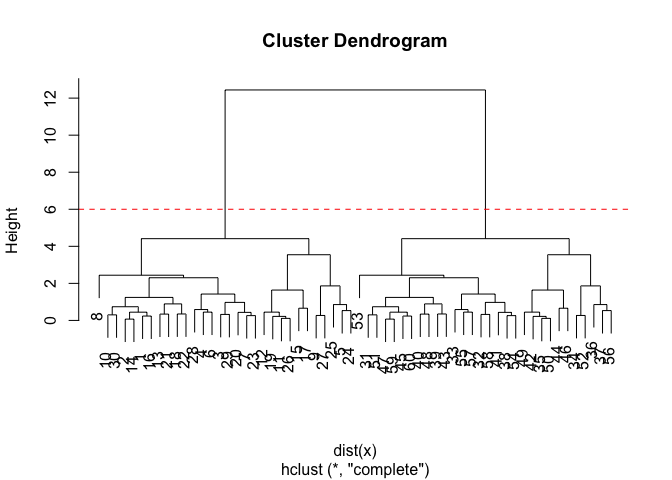
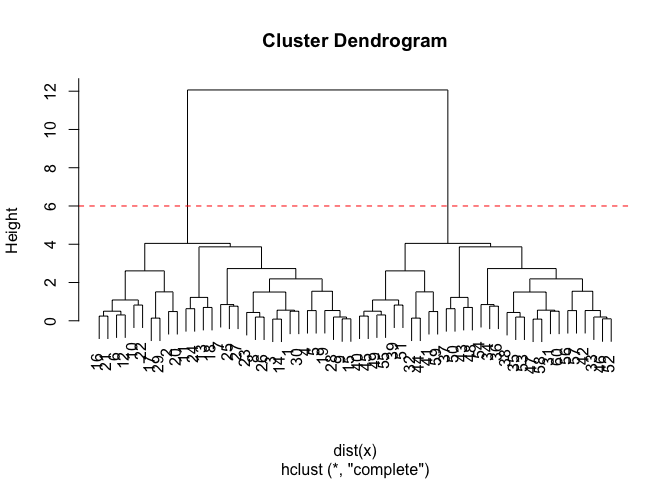
class 09

diff --git a/class09/class09.md b/class09/class09.md
@@ -33,16 +33,16 @@ km
     ## 
     ## Cluster means:
     ##           x         y
-    ## 1  3.036064 -3.072001
-    ## 2 -3.072001  3.036064
+    ## 1 -2.939129  3.059490
+    ## 2  3.059490 -2.939129
     ## 
     ## Clustering vector:
-    ##  [1] 2 2 2 2 2 2 2 2 2 2 2 2 2 2 2 2 2 2 2 2 2 2 2 2 2 2 2 2 2 2 1 1 1 1 1 1 1 1
-    ## [39] 1 1 1 1 1 1 1 1 1 1 1 1 1 1 1 1 1 1 1 1 1 1
+    ##  [1] 1 1 1 1 1 1 1 1 1 1 1 1 1 1 1 1 1 1 1 1 1 1 1 1 1 1 1 1 1 1 2 2 2 2 2 2 2 2
+    ## [39] 2 2 2 2 2 2 2 2 2 2 2 2 2 2 2 2 2 2 2 2 2 2
     ## 
     ## Within cluster sum of squares by cluster:
-    ## [1] 62.53523 62.53523
-    ##  (between_SS / total_SS =  89.9 %)
+    ## [1] 65.53055 65.53055
+    ##  (between_SS / total_SS =  89.2 %)
     ## 
     ## Available components:
     ## 
@@ -79,8 +79,8 @@ cluster assignment/membership? - cluster
 km$cluster
 ```
 
-    ##  [1] 2 2 2 2 2 2 2 2 2 2 2 2 2 2 2 2 2 2 2 2 2 2 2 2 2 2 2 2 2 2 1 1 1 1 1 1 1 1
-    ## [39] 1 1 1 1 1 1 1 1 1 1 1 1 1 1 1 1 1 1 1 1 1 1
+    ##  [1] 1 1 1 1 1 1 1 1 1 1 1 1 1 1 1 1 1 1 1 1 1 1 1 1 1 1 1 1 1 1 2 2 2 2 2 2 2 2
+    ## [39] 2 2 2 2 2 2 2 2 2 2 2 2 2 2 2 2 2 2 2 2 2 2
 
 let’s check how many 2s and 1s are in this vector with the `table()`
 function.
@@ -134,7 +134,7 @@ table(cutree(hc, h=3.5))
 
     ## 
     ##  1  2  3  4  5  6 
-    ##  5 12 13 12  5 13
+    ## 16 10  4 16 10  4
 
 You can also ask `cutree()` for the `k` number of groups that you
     want.
@@ -143,8 +143,8 @@ You can also ask `cutree()` for the `k` number of groups that you
 cutree(hc, k=5)
 ```
 
-    ##  [1] 1 1 1 2 2 2 2 2 1 1 1 1 2 2 2 1 1 1 2 2 2 1 1 1 1 2 2 1 1 1 3 3 4 5 5 3 3 3
-    ## [39] 3 5 5 5 3 3 4 5 5 5 3 4 4 3 5 5 5 5 5 3 3 4
+    ##  [1] 1 2 1 1 1 2 1 1 1 2 1 2 1 1 1 2 2 1 1 2 2 2 1 1 1 1 1 1 2 1 3 4 3 3 3 3 5 3
+    ## [39] 4 4 4 3 5 4 4 3 3 5 4 5 4 3 3 3 4 3 3 3 4 3
 
 ### Some more messy data to cluster
 
@@ -154,168 +154,168 @@ matrix(rnorm(100, mean=0, sd=0.3), ncol = 2)
 ```
 
     ##              [,1]        [,2]
-    ##  [1,] -0.31913820 -0.02109787
-    ##  [2,]  0.03186402 -0.17957729
-    ##  [3,]  0.48375748 -0.20059460
-    ##  [4,] -0.39366503 -0.03599685
-    ##  [5,]  0.17189445  0.10363401
-    ##  [6,]  0.38049361 -0.78180897
-    ##  [7,] -0.26561546 -0.07978661
-    ##  [8,]  0.49009226 -0.33956113
-    ##  [9,] -0.05380197  0.12194989
-    ## [10,]  0.04018419 -0.37933969
-    ## [11,]  0.15636835  0.28612476
-    ## [12,]  0.45929287  0.26465745
-    ## [13,] -0.11312212 -0.34511387
-    ## [14,] -0.19230680 -0.30733014
-    ## [15,] -0.15897707 -0.41035629
-    ## [16,]  0.32004260  0.07745656
-    ## [17,]  0.42093394 -0.05766921
-    ## [18,]  0.09297242 -0.20041143
-    ## [19,] -0.47570309  0.38215916
-    ## [20,] -0.26339523 -0.01247480
-    ## [21,]  0.15354016  0.07124409
-    ## [22,]  0.03102017  0.30836894
-    ## [23,] -0.16344478 -0.24198403
-    ## [24,]  0.21428093 -0.34442785
-    ## [25,] -0.09036779 -0.22700342
-    ## [26,] -0.08545067 -0.21815372
-    ## [27,]  0.31355849 -0.16934805
-    ## [28,] -0.47654434 -0.11851911
-    ## [29,]  0.82254395  0.23276476
-    ## [30,] -0.21233668  0.51116399
-    ## [31,]  0.15849475 -0.03676289
-    ## [32,]  0.27796116  0.11586018
-    ## [33,]  0.25548278  0.32443330
-    ## [34,] -0.08018712 -0.38691119
-    ## [35,] -0.07343150 -0.23426910
-    ## [36,] -0.33359553 -0.54139333
-    ## [37,]  0.04255332 -0.19679985
-    ## [38,]  0.09926331 -0.11365487
-    ## [39,]  0.12991411 -0.32098665
-    ## [40,]  0.17023745  0.31840524
-    ## [41,]  0.36995024 -0.15544984
-    ## [42,]  0.08740956 -0.20408206
-    ## [43,]  0.10574367  0.20614899
-    ## [44,] -0.10794279 -0.47344302
-    ## [45,] -0.07305686  0.15686376
-    ## [46,]  0.31398187  0.37838636
-    ## [47,]  0.45804409  0.03634850
-    ## [48,] -0.23476027  0.67243123
-    ## [49,] -0.24874449  0.18886026
-    ## [50,]  0.52531739 -0.10457459
+    ##  [1,] -0.02775715 -0.23696221
+    ##  [2,] -0.57422891 -0.22861441
+    ##  [3,] -0.42399051 -0.21353164
+    ##  [4,] -0.09101767 -0.32059918
+    ##  [5,]  0.02146266 -0.14674155
+    ##  [6,] -0.15977803  0.10435362
+    ##  [7,] -0.27579102 -0.02487040
+    ##  [8,] -0.14254310  0.13315211
+    ##  [9,] -0.06998891 -0.57964966
+    ## [10,] -0.19030487  0.26727149
+    ## [11,]  0.77913347  0.31680197
+    ## [12,] -0.11329903 -0.50010193
+    ## [13,] -0.39623306  0.42457428
+    ## [14,]  0.06026653 -0.13287384
+    ## [15,]  0.15885059 -0.25080784
+    ## [16,] -0.03477833 -0.25569467
+    ## [17,]  0.13473549  0.12767830
+    ## [18,]  0.33211732  0.31179461
+    ## [19,] -0.12264195 -0.09847429
+    ## [20,] -0.26900767 -0.26835771
+    ## [21,] -0.23507133  0.28202394
+    ## [22,]  0.13632396  0.02775545
+    ## [23,]  0.17336341 -0.49476997
+    ## [24,]  0.12109758  0.11741279
+    ## [25,] -0.06848261  0.15294415
+    ## [26,] -0.18012967 -0.30279931
+    ## [27,] -0.27493538  0.25783576
+    ## [28,]  0.38176817  0.42317136
+    ## [29,] -0.02978064  0.31757910
+    ## [30,] -0.34832580 -0.36576432
+    ## [31,]  0.06446065  0.08906361
+    ## [32,]  0.03523788 -0.69302227
+    ## [33,]  0.21330682  0.09821592
+    ## [34,] -0.61821147  0.23574663
+    ## [35,]  0.48246586 -0.11248931
+    ## [36,]  0.34506107 -0.41293041
+    ## [37,] -0.36396717  0.18213199
+    ## [38,]  0.01611774  0.03128387
+    ## [39,]  0.30717845 -0.01822323
+    ## [40,]  0.10666143  0.42171030
+    ## [41,] -0.18776253 -0.03285607
+    ## [42,] -0.30826351 -0.47282986
+    ## [43,]  0.20527543 -0.27453122
+    ## [44,] -0.11371357  0.10902098
+    ## [45,]  0.12330185 -0.31550463
+    ## [46,] -0.08180270 -0.28664197
+    ## [47,]  0.35495223 -0.07687250
+    ## [48,] -0.18599652  0.07605067
+    ## [49,]  0.21969205  0.08483616
+    ## [50,] -0.13157512 -0.07882112
 
 ``` r
 matrix(rnorm(100, mean=1, sd=0.3), ncol = 2)
 ```
 
-    ##             [,1]      [,2]
-    ##  [1,] 1.19760847 1.0236556
-    ##  [2,] 1.35353020 0.6939977
-    ##  [3,] 0.68572801 0.9837471
-    ##  [4,] 0.97918697 1.2747649
-    ##  [5,] 1.02626593 1.1727653
-    ##  [6,] 1.01187063 0.8429273
-    ##  [7,] 1.91437082 0.7830710
-    ##  [8,] 0.85247105 0.9378162
-    ##  [9,] 1.32216766 1.6258779
-    ## [10,] 0.78020704 0.8034727
-    ## [11,] 0.06133387 0.8895558
-    ## [12,] 1.26367624 1.1246501
-    ## [13,] 1.06525507 0.5026807
-    ## [14,] 0.74490189 1.5551092
-    ## [15,] 1.37747497 0.8756832
-    ## [16,] 1.09566883 1.3038572
-    ## [17,] 0.76675388 1.6389252
-    ## [18,] 1.03829773 0.9966498
-    ## [19,] 1.53211294 0.4107839
-    ## [20,] 1.42924459 1.0435305
-    ## [21,] 0.95570543 1.0215452
-    ## [22,] 1.14051846 0.9407165
-    ## [23,] 0.81417652 1.0843284
-    ## [24,] 0.79282299 0.8253359
-    ## [25,] 1.12173334 1.3034469
-    ## [26,] 0.99633918 0.9716576
-    ## [27,] 1.07928714 1.0502080
-    ## [28,] 0.89590916 0.4897840
-    ## [29,] 1.35517049 1.2041723
-    ## [30,] 1.46361915 1.2716977
-    ## [31,] 1.21649065 0.9981566
-    ## [32,] 1.09305664 0.9384694
-    ## [33,] 0.79526325 0.8198659
-    ## [34,] 0.91947846 0.7717310
-    ## [35,] 0.80247377 1.1495131
-    ## [36,] 1.08620889 0.8326349
-    ## [37,] 1.25506859 1.1210930
-    ## [38,] 0.99243130 0.6711573
-    ## [39,] 0.58812276 0.7849255
-    ## [40,] 0.89724998 1.1039184
-    ## [41,] 1.35413850 0.8067433
-    ## [42,] 1.07471113 1.1669654
-    ## [43,] 0.73948463 1.0161904
-    ## [44,] 1.22591288 1.0654462
-    ## [45,] 0.82859460 1.1410175
-    ## [46,] 0.89832546 1.2755583
-    ## [47,] 0.58500837 0.7599255
-    ## [48,] 1.65454160 1.1778500
-    ## [49,] 0.67095172 0.5659507
-    ## [50,] 1.17967773 0.9201865
+    ##            [,1]      [,2]
+    ##  [1,] 1.0915410 0.9335760
+    ##  [2,] 0.9226210 0.6363475
+    ##  [3,] 0.8228454 1.4165913
+    ##  [4,] 0.9724753 0.8013258
+    ##  [5,] 0.2444294 1.4223090
+    ##  [6,] 0.8695445 1.4770139
+    ##  [7,] 0.6914379 1.4807277
+    ##  [8,] 1.0569795 1.1485659
+    ##  [9,] 1.3318963 0.6293962
+    ## [10,] 0.7956119 1.1836417
+    ## [11,] 0.9915400 0.8085057
+    ## [12,] 1.2132366 1.3632821
+    ## [13,] 1.0807092 1.1643070
+    ## [14,] 0.8966870 0.9426413
+    ## [15,] 0.6118650 1.4858598
+    ## [16,] 1.0263584 1.0981055
+    ## [17,] 1.2686189 0.5131177
+    ## [18,] 0.6094432 0.7545855
+    ## [19,] 1.1637618 1.3359750
+    ## [20,] 0.6416405 0.6953474
+    ## [21,] 0.5826931 0.6935017
+    ## [22,] 0.8481816 1.1628984
+    ## [23,] 0.6248454 1.2173697
+    ## [24,] 0.7286479 1.1577441
+    ## [25,] 1.0345861 1.0708088
+    ## [26,] 0.9398092 1.9547169
+    ## [27,] 1.1149289 1.2602754
+    ## [28,] 1.1712076 0.8278038
+    ## [29,] 0.8159349 0.4318635
+    ## [30,] 1.3489096 0.5891355
+    ## [31,] 1.1266205 0.9756055
+    ## [32,] 0.7687121 0.9546305
+    ## [33,] 0.8564022 0.2555261
+    ## [34,] 1.0056521 1.0854538
+    ## [35,] 1.1053202 1.1526476
+    ## [36,] 1.1121741 0.8921480
+    ## [37,] 1.6606344 0.9756454
+    ## [38,] 0.8438261 1.4166331
+    ## [39,] 0.9737325 0.7344169
+    ## [40,] 1.3140451 0.8803738
+    ## [41,] 1.4411169 0.5593098
+    ## [42,] 0.9814031 0.7394828
+    ## [43,] 0.9571316 0.8873122
+    ## [44,] 1.1671378 1.3706679
+    ## [45,] 0.9659649 0.8153628
+    ## [46,] 0.8983481 1.1639941
+    ## [47,] 0.5635391 0.9660119
+    ## [48,] 1.1679422 1.2885660
+    ## [49,] 0.6325335 0.5518322
+    ## [50,] 0.9880246 0.9356474
 
 ``` r
 matrix(c(rnorm(50, mean=1, sd=0.3), rnorm(50, mean=0, sd=0.3)), ncol = 2)
 ```
 
     ##            [,1]         [,2]
-    ##  [1,] 1.2060488 -0.146109709
-    ##  [2,] 1.2034985 -0.014948194
-    ##  [3,] 0.9672763 -0.023773402
-    ##  [4,] 1.3283526 -0.225318420
-    ##  [5,] 1.2297119 -0.287576472
-    ##  [6,] 1.1053408  0.087633349
-    ##  [7,] 0.8834071  0.160412976
-    ##  [8,] 0.7704349  0.150138209
-    ##  [9,] 1.2268410 -0.451923138
-    ## [10,] 0.9052539 -0.003795535
-    ## [11,] 0.4378323  0.224513399
-    ## [12,] 1.2743550  0.237776823
-    ## [13,] 0.7310799 -0.448243582
-    ## [14,] 0.4064599 -0.121512138
-    ## [15,] 1.2467844 -0.198130726
-    ## [16,] 0.9109003 -0.709841909
-    ## [17,] 0.5298332  0.179927805
-    ## [18,] 0.6137907 -0.123858665
-    ## [19,] 0.7759335 -0.025184663
-    ## [20,] 1.4112375  0.228419133
-    ## [21,] 0.1586037 -0.157243163
-    ## [22,] 0.6289589 -0.468725384
-    ## [23,] 1.4528229  0.031413574
-    ## [24,] 1.3416974  0.241632278
-    ## [25,] 0.5986156  0.365238656
-    ## [26,] 1.1364407 -0.259386386
-    ## [27,] 1.2382681  0.288933790
-    ## [28,] 1.1841891 -0.069463793
-    ## [29,] 1.0373119 -0.010029254
-    ## [30,] 1.1278636  0.049287480
-    ## [31,] 0.7253911 -0.094934302
-    ## [32,] 1.1660338 -0.404101019
-    ## [33,] 0.7067131  0.223647206
-    ## [34,] 0.4787301  0.136608177
-    ## [35,] 0.9351139  0.787921847
-    ## [36,] 1.0074330  0.081402795
-    ## [37,] 0.9142722  0.294574305
-    ## [38,] 1.1212339 -0.064383735
-    ## [39,] 1.4152264  0.124152783
-    ## [40,] 0.9745668  0.274218469
-    ## [41,] 0.8907715  0.461178017
-    ## [42,] 1.0410321  0.381159279
-    ## [43,] 0.8568903 -0.263820048
-    ## [44,] 1.2450051  0.326838215
-    ## [45,] 0.7252167 -0.007310646
-    ## [46,] 0.8536024  0.454468959
-    ## [47,] 1.2200001  0.391663072
-    ## [48,] 1.8923921  0.179117715
-    ## [49,] 0.8387889 -0.157450118
-    ## [50,] 1.0057701 -0.216312211
+    ##  [1,] 1.1336609 -0.106355924
+    ##  [2,] 0.6507498 -0.055088291
+    ##  [3,] 0.9087410 -0.006580164
+    ##  [4,] 0.7128114  0.289780483
+    ##  [5,] 1.0920805 -0.086401162
+    ##  [6,] 0.8357102 -0.050990699
+    ##  [7,] 1.0617061  0.214712199
+    ##  [8,] 1.3048440 -0.180901613
+    ##  [9,] 1.3679380 -0.069077559
+    ## [10,] 0.8061527 -0.557382442
+    ## [11,] 0.8991247  0.194327000
+    ## [12,] 0.8846960  0.228233901
+    ## [13,] 1.1911785 -0.272715337
+    ## [14,] 1.0974746  0.167662687
+    ## [15,] 1.0993035 -0.176668364
+    ## [16,] 1.0434016  0.176071031
+    ## [17,] 0.7937777 -0.157605690
+    ## [18,] 1.2123416  0.127394670
+    ## [19,] 1.0082470  0.046188468
+    ## [20,] 0.9029360  0.026086896
+    ## [21,] 0.8510381 -0.306529356
+    ## [22,] 0.8850638  0.289919991
+    ## [23,] 0.8745208 -0.242424977
+    ## [24,] 0.7374343 -0.068996151
+    ## [25,] 0.5271769  0.188592097
+    ## [26,] 1.6523430  0.616930497
+    ## [27,] 1.3106666  0.005339398
+    ## [28,] 0.8634521  0.043544189
+    ## [29,] 1.1297210 -0.579753840
+    ## [30,] 1.1899995  0.636799658
+    ## [31,] 1.6585340 -0.333961538
+    ## [32,] 0.8663684  0.049363757
+    ## [33,] 0.8941262 -0.032739498
+    ## [34,] 1.1621613 -0.256051350
+    ## [35,] 0.6330496 -0.142555973
+    ## [36,] 1.0555895 -0.033633389
+    ## [37,] 0.9470544  0.088260053
+    ## [38,] 1.1147249 -0.675802724
+    ## [39,] 0.9170188 -0.288204835
+    ## [40,] 1.4728418  0.255758865
+    ## [41,] 1.2379723 -0.386135488
+    ## [42,] 1.4195068 -0.170406036
+    ## [43,] 0.6748712  0.034111593
+    ## [44,] 1.1537935  0.267580264
+    ## [45,] 1.2743516  0.193157825
+    ## [46,] 0.9781866 -0.090951950
+    ## [47,] 1.2392987  0.251904422
+    ## [48,] 0.8566102  0.911466556
+    ## [49,] 0.9562449 -0.196429805
+    ## [50,] 0.7559072 -0.593865725
 
 ``` r
 colnames(x) <- c("x", "y")
@@ -350,8 +350,8 @@ grps3 <- cutree(hc, k=3)
 grps3
 ```
 
-    ##  [1] 1 1 1 1 1 1 1 1 1 1 1 1 1 1 1 1 1 1 1 1 1 1 1 1 1 1 1 1 1 1 2 2 2 3 3 2 2 2
-    ## [39] 2 3 3 3 2 2 2 3 3 3 2 2 2 2 3 3 3 3 3 2 2 2
+    ##  [1] 1 1 1 1 1 1 1 1 1 1 1 1 1 1 1 1 1 1 1 1 1 1 1 1 1 1 1 1 1 1 2 3 2 2 2 2 2 2
+    ## [39] 3 3 3 2 2 3 3 2 2 2 3 2 3 2 2 2 3 2 2 2 3 2
 
 ``` r
 table(grps3)
@@ -359,7 +359,7 @@ table(grps3)
 
     ## grps3
     ##  1  2  3 
-    ## 30 17 13
+    ## 30 20 10
 
 Q. How does this compare to your known ‘col’ groups?
 
